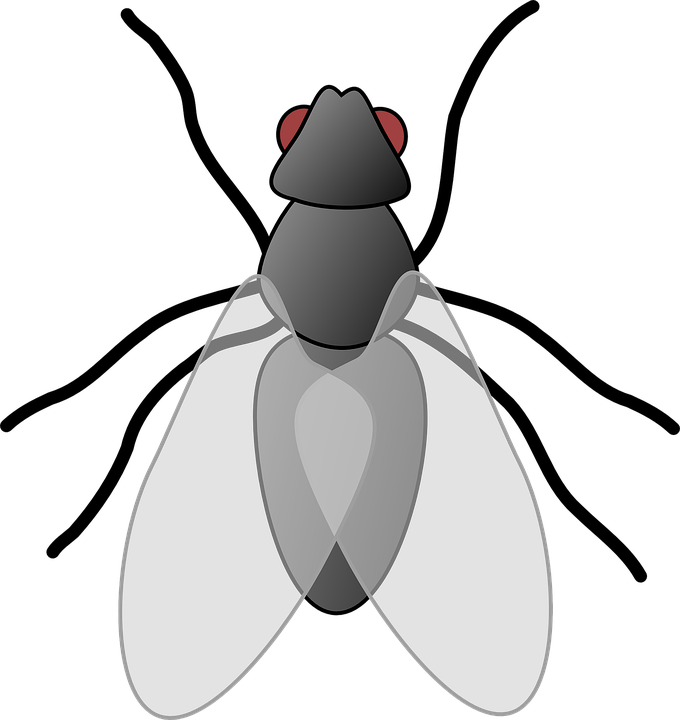
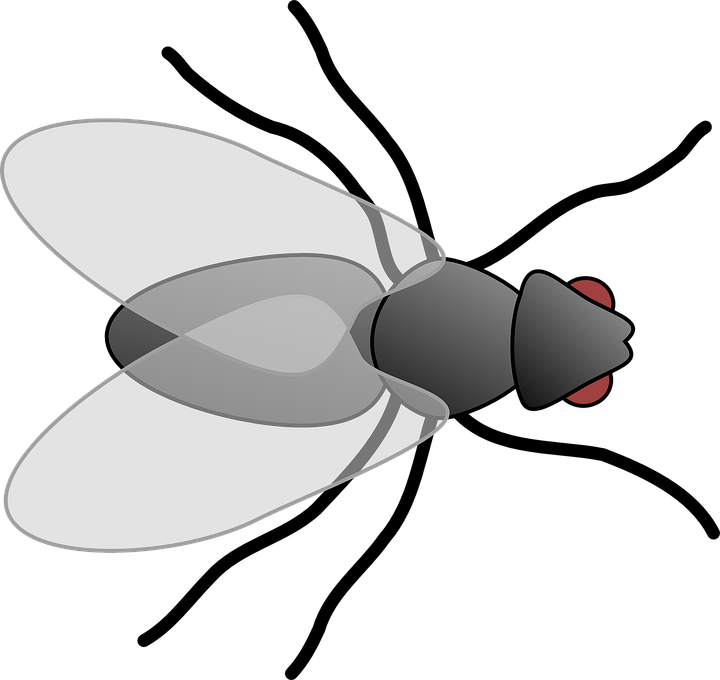
Movimiento de las moscas hecho. Aún continua el problema de la telaraña.

diff --git a/AtrapandoInsectos/src/atrapandoinsectos/Interfaz/Nivel1.java b/AtrapandoInsectos/src/atrapandoinsectos/Interfaz/Nivel1.java
@@ -62,10 +62,8 @@ public class Nivel1 {
     private List<Hormiga> hormigas = new ArrayList<>(); //lista de hormigas
     private List<Mosca> moscas = new ArrayList<>(); // list de moscas
     private List<Thread> thrMove = new ArrayList<>();
-    private Telarana telarana;
-    //
-    Image img = new Image(getClass().getResourceAsStream("/Recursos/Imagenes/Telarana1.png"), 120, 120, true, true);
-    ImageView imgv = new ImageView(img);  //imagen de la telarana para hacer colision
+    private Telarana telarana = new Telarana();
+
     private Stage stage;
 
     private Thread Mlagartija;
@@ -77,18 +75,24 @@ public class Nivel1 {
         nuevoStage();
 
         thrTiempo = new Thread(new Tiempo());
+        thrTiempo.setDaemon(true);
         thrTiempo.start();
 
         thrpuntos = new Thread(new Puntos());
+        thrpuntos.setDaemon(true);
         thrpuntos.start();
+        
         //hilo qie quila la imagen por el gif 
 
         thrtelarana = new Thread(new Aparece());
+        thrtelarana.setDaemon(true);
         thrtelarana.start();
+        
         //inidio del hilo para el movimiento de la lagartija
         Mlagartija = new Thread(lagartija);
+        Mlagartija.setDaemon(true);
         Mlagartija.start();
-
+        
         crearHormigas();
         crearMoscas();
         //buscar nueva version de suspend
@@ -106,7 +110,7 @@ public class Nivel1 {
     }
 
     public void inicializar() {
-
+        Mosca.generarPaths();;
         panelsuper = new HBox();
         panelsuper.setId("panelsuper");
         c = new HBox();
@@ -126,9 +130,6 @@ public class Nivel1 {
         gamePane = new Pane();
         lblTiempo = new Label("Tiempo: ");
         lblpuntos = new Label("Puntos: ");
-        //
-
-        telarana = new Telarana(imgv);
 
         PantallaMenu.jugador.getObjeto().relocate(570, 300); //posicion de la arana central
         PantallaMenu.jugador.getObjeto().setFocusTraversable(true);
@@ -239,6 +240,7 @@ public class Nivel1 {
             hormigas.add(hormiga);
             gamePane.getChildren().add(hormiga.getObjeto());
             Thread h = new Thread(hormiga);
+            h.setDaemon(true);
             thrMove.add(h);
             h.start();
 
@@ -251,14 +253,12 @@ public class Nivel1 {
     public void crearMoscas() {
         for (int i = 0; i < 4; i++) {
             Mosca mosca = new Mosca(15);
-            Random rd = new Random();
-            int pX = 100 + rd.nextInt(1000);
-            int pY = 10 + rd.nextInt(515);
-            mosca.fijarPosicionObjeto(pX, pY);
             moscas.add(mosca);
             gamePane.getChildren().add(mosca.getObjeto());
-//            Thread m = new Thread(mosca);
-//            m.start();
+            Thread m = new Thread(mosca);
+            m.setDaemon(true);
+            thrMove.add(m);
+            m.start();
 
         }
     }
@@ -331,9 +331,10 @@ public class Nivel1 {
     colision entre la arana y la telarana, falta aumentar que la lagartija quede atrapada por 5 segundos
      */
     public void ColisionTelaarana() {
-        if (isCollision(telarana.getObjeto(), PantallaMenu.jugador.getObjeto())) {
+        if (isCollision(PantallaMenu.jugador.getObjeto(), telarana.getObjeto())) {
 
             gamePane.getChildren().remove(telarana.getObjeto());
+            telarana.setImagen();
             Thread thrQuitarLagartija = new Thread(new QuitarLagartijaAtrapada());
             thrQuitarLagartija.start();
 
@@ -388,26 +389,29 @@ public class Nivel1 {
      */
     class Aparece implements Runnable {
 
+        private boolean acabar = false;
+
         @Override
         public void run() {
-            try {
-                //agrega la telarana en una posicion aleatoria por 5 segundos
-                Random rd = new Random();
-                int milisegundos = 5000 + rd.nextInt(20000);
-                Thread.sleep(milisegundos);
-                Platform.runLater(() -> meterTelaArana());
-                Thread.sleep(10000);
-                
-                Platform.runLater(() -> {
-                    telarana.getObjeto().setDisable(true);
-                    gamePane.getChildren().remove(telarana.getObjeto());
-                    
-                });
+            while (acabar == false) {
+                try {
+                    //agrega la telarana en una posicion aleatoria por 5 segundos
+                    Random rd = new Random();
+                    int milisegundos = 5000 + rd.nextInt(20000);
+                    Thread.sleep(milisegundos);
+                    Platform.runLater(() -> meterTelaArana());
+                    Thread.sleep(10000);
+                    acabar = true;
+                    Platform.runLater(() -> {
+                        telarana.setImagen();
+                        gamePane.getChildren().remove(telarana.getObjeto());
 
-            } catch (InterruptedException ex) {
-                Logger.getLogger(Nivel1.class.getName()).log(Level.SEVERE, null, ex);
+                    });
+
+                } catch (InterruptedException ex) {
+                    Logger.getLogger(Nivel1.class.getName()).log(Level.SEVERE, null, ex);
+                }
             }
-
         }
     }
 
@@ -468,7 +472,7 @@ public class Nivel1 {
     y me resta un corazon
      */
     public Node AparecerArana(int vida) {
-            Node imagenjugador = null;
+        Node imagenjugador = null;
         if (vida == 3) {
             PantallaMenu.jugador.setVidas(vida - 1); //elimina una vida
             c.getChildren().remove(corazon);//elimina un corazon

diff --git a/AtrapandoInsectos/src/atrapandoinsectos/Modelo/Mosca.java b/AtrapandoInsectos/src/atrapandoinsectos/Modelo/Mosca.java
@@ -5,9 +5,17 @@
  */
 package atrapandoinsectos.Modelo;
 
+import java.util.ArrayList;
 import java.util.Random;
+import javafx.animation.Animation;
+import javafx.animation.PathTransition;
 import javafx.scene.image.Image;
 import javafx.scene.image.ImageView;
+import javafx.scene.shape.CubicCurveTo;
+import javafx.scene.shape.LineTo;
+import javafx.scene.shape.MoveTo;
+import javafx.scene.shape.Path;
+import javafx.util.Duration;
 
 /**
  *
@@ -15,23 +23,70 @@ import javafx.scene.image.ImageView;
  */
 public class Mosca extends Insecto {
 
+    private Path path;
+    static ArrayList<Path> UbicacionesPaths = new ArrayList<Path>();
+
     public Mosca(int puntos) {
         super(puntos);
         Image img = new Image(getClass().getResourceAsStream("/Recursos/Imagenes/Mosca.png"), 70, 70, true, true);
         imagen = new ImageView(img);
-
-        Random r = new Random();
-        imagen.setLayoutX(r.nextInt(500));
-        imagen.setLayoutY(r.nextInt(500));
+        path = escogerPath();
     }
 
     @Override
     public void run() {
-        throw new UnsupportedOperationException("Not supported yet."); //To change body of generated methods, choose Tools | Templates.
+
+        pt = new PathTransition(Duration.millis(50000), path, super.getObjeto());
+        pt.setOrientation(PathTransition.OrientationType.ORTHOGONAL_TO_TANGENT);
+        pt.setCycleCount(Animation.INDEFINITE);
+        pt.setAutoReverse(false);
+        pt.play();
     }
 
     public ImageView getImagen() {
         return imagen;
+    }
+
+    public static void generarPaths() {
+        Integer[] rotaciones = {0, 90, 180, 270};
+        Integer[] rotaciones2 = {45, 135, 225, 315};
+        //diseño 1 de path
+        for (Integer i : rotaciones) {
+            MoveTo inicio = new MoveTo(200, 90);
+            Path path = new Path();
+            path.getElements().addAll(inicio, new CubicCurveTo(800, 0, 800, 125, 500, 100), new CubicCurveTo(100, 100, 100, 225, 500, 150), new CubicCurveTo(800, 125, 800, 250, 500, 200), new CubicCurveTo(100, 200, 100, 300, 500, 250), new CubicCurveTo(800, 250, 800, 375, 500, 300), new CubicCurveTo(100, 275, 100, 375, 500, 350), new CubicCurveTo(800, 375, 800, 500, 500, 400), new CubicCurveTo(100, 350, 100, 450, 500, 450), new CubicCurveTo(800, 475, 800, 600, 500, 500), new CubicCurveTo(100, 425, 100, 525, 700, 550), new LineTo(200, 90));
+            path.setRotate(i);
+            UbicacionesPaths.add(path);
+
+        }
+        //diseño 2 de path
+        for (Integer i : rotaciones2) {
+            Path path2 = new Path();
+            MoveTo moveTo = new MoveTo(200, 200);
+            path2.getElements().add(moveTo);
+            path2.getElements().addAll(new CubicCurveTo(370, 150, 65 + 170, 300, 700, 200), new LineTo(700, 200), new LineTo(200, 500), new LineTo(450, 50), new LineTo(200, 200));
+            path2.setRotate(i);
+            UbicacionesPaths.add(path2);
+
+        }
+
+    }
+
+    public Path escogerPath() {
+        Random rd = new Random();
+        int indice = rd.nextInt(UbicacionesPaths.size());
+        System.out.println(indice);
+        Path p = UbicacionesPaths.get(indice);
+        UbicacionesPaths.remove(p);
+        return p;
+    }
+
+    public Path getPath() {
+        return path;
+    }
+
+    public void setPath(Path path) {
+        this.path = path;
     }
 
 }

diff --git a/AtrapandoInsectos/src/atrapandoinsectos/Modelo/Telarana.java b/AtrapandoInsectos/src/atrapandoinsectos/Modelo/Telarana.java
@@ -21,9 +21,10 @@ public class Telarana extends Thread {
 
     private ImageView imagen;
 
-    public Telarana(ImageView img) {
-        this.imagen = img;
-        imagen.setPickOnBounds(false);
+    public Telarana() {
+        Image img = new Image(getClass().getResourceAsStream("/Recursos/Imagenes/Telarana1.png"), 120, 120, true, true);
+        imagen = new ImageView(img);
+        imagen.setPickOnBounds(true);
 
     }
 
@@ -41,4 +42,9 @@ public class Telarana extends Thread {
     public Node getObjeto() {
         return imagen;
     }
+
+    public void setImagen() {
+        this.imagen.setDisable(true);
+    }
+    
 }

diff --git a/AtrapandoInsectos/src/atrapandoinsectos/Modelo/Lagartija.java b/AtrapandoInsectos/src/atrapandoinsectos/Modelo/Lagartija.java
@@ -31,6 +31,7 @@ public class Lagartija extends Insecto {
         super(puntos);
         Image img = new Image(getClass().getResourceAsStream("/Recursos/Imagenes/Lagartija-g.gif"), 175, 175, true, true);
         imagen = new ImageView(img);
+        imagen.setPickOnBounds(true);
          path = generarPath();
         
        
